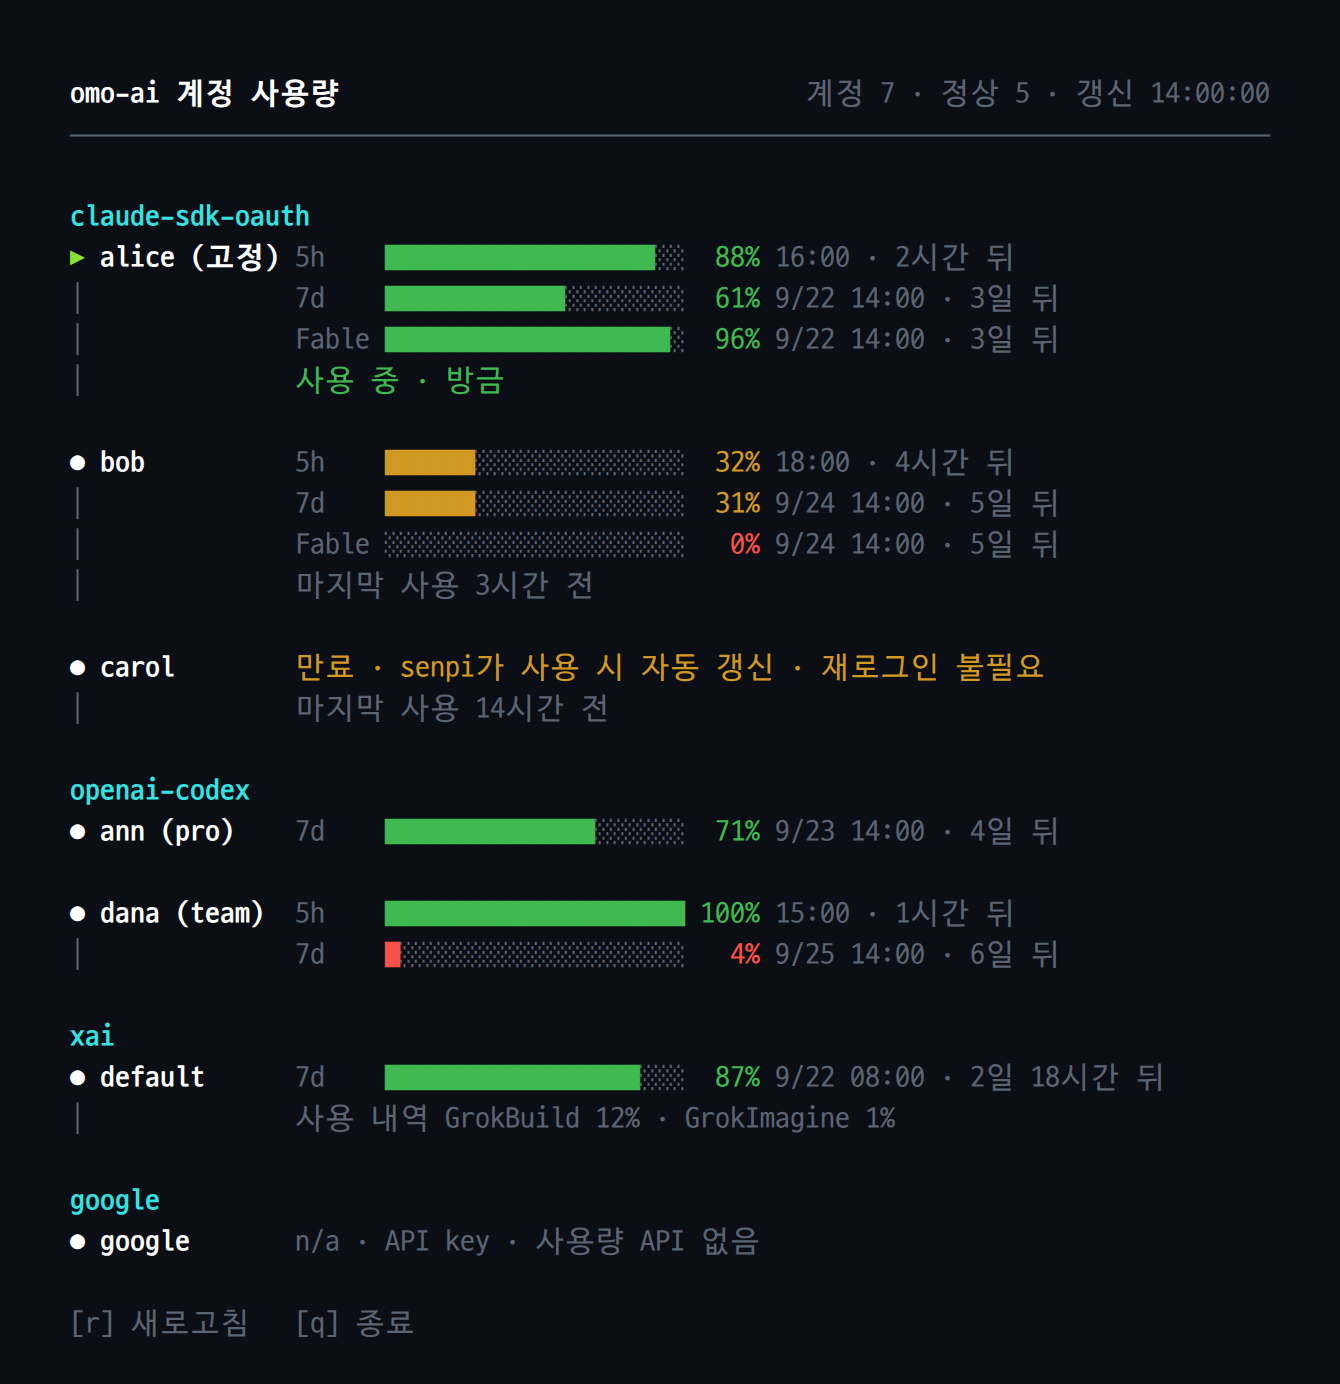
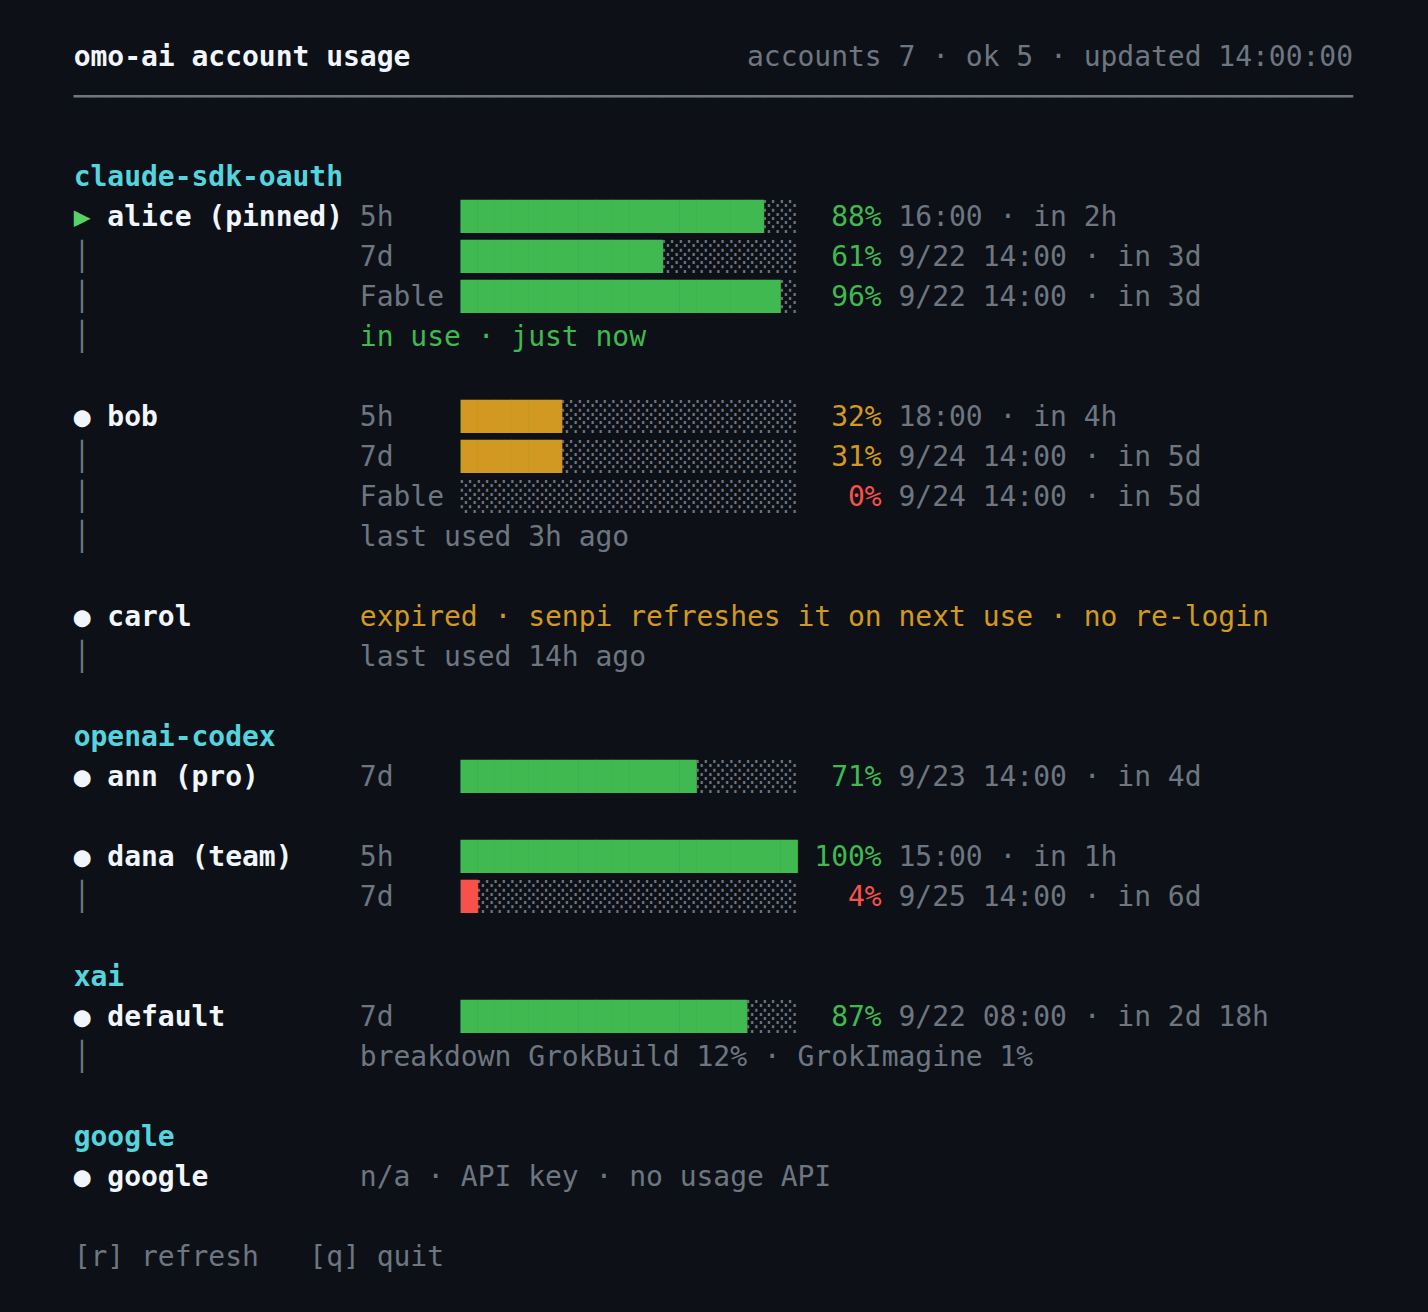
docs: README·데모 스크린샷을 영어 UI에 맞춰 갱신
두 README의 데모 블록을 실제 renderFrame 출력으로 다시 찍고(영어), 본문이 인용하던
화면 문자열(만료·사용 중·요청 제한·사용 내역·고정 ...)을 새 영어 문자열로 바꿨다.
한국어판 본문은 한국어 그대로고 인용만 영어다. 영어판에 있던 한글 용어 대조표는
UI가 영어가 되어 필요 없어졌으므로 뺐다.

docs/demo.png도 같은 데모 데이터로 다시 렌더했다 (renderFrame -> xterm.js -> Chrome 2x).

diff --git a/README.md b/README.md
@@ -16,43 +16,40 @@ A terminal UI that shows the **remaining quota of every account** signed in to o
 <summary>Text version (the same demo data as the screenshot above)</summary>
 
 ```
-  omo-ai 계정 사용량                               계정 7 · 정상 5 · 갱신 14:00:00
-  ────────────────────────────────────────────────────────────────────────────────
+  omo-ai account usage                    accounts 7 · ok 5 · updated 14:00:00
+  ────────────────────────────────────────────────────────────────────────────
 
   claude-sdk-oauth
-  ▶ alice (고정) 5h    ██████████████████░░  88% 16:00 · 2시간 뒤
-  │              7d    ████████████░░░░░░░░  61% 9/22 14:00 · 3일 뒤
-  │              Fable ███████████████████░  96% 9/22 14:00 · 3일 뒤
-  │              사용 중 · 방금
+  ▶ alice (pinned) 5h    ██████████████████░░  88% 16:00 · in 2h
+  │                7d    ████████████░░░░░░░░  61% 9/22 14:00 · in 3d
+  │                Fable ███████████████████░  96% 9/22 14:00 · in 3d
+  │                in use · just now
 
-  ● bob          5h    ██████░░░░░░░░░░░░░░  32% 18:00 · 4시간 뒤
-  │              7d    ██████░░░░░░░░░░░░░░  31% 9/24 14:00 · 5일 뒤
-  │              Fable ░░░░░░░░░░░░░░░░░░░░   0% 9/24 14:00 · 5일 뒤
-  │              마지막 사용 3시간 전
+  ● bob            5h    ██████░░░░░░░░░░░░░░  32% 18:00 · in 4h
+  │                7d    ██████░░░░░░░░░░░░░░  31% 9/24 14:00 · in 5d
+  │                Fable ░░░░░░░░░░░░░░░░░░░░   0% 9/24 14:00 · in 5d
+  │                last used 3h ago
 
-  ● carol        만료 · senpi가 사용 시 자동 갱신 · 재로그인 불필요
-  │              마지막 사용 14시간 전
+  ● carol          expired · senpi refreshes it on next use · no re-login
+  │                last used 14h ago
 
   openai-codex
-  ● ann (pro)    7d    ██████████████░░░░░░  71% 9/23 14:00 · 4일 뒤
+  ● ann (pro)      7d    ██████████████░░░░░░  71% 9/23 14:00 · in 4d
 
-  ● dana (team)  5h    ████████████████████ 100% 15:00 · 1시간 뒤
-  │              7d    █░░░░░░░░░░░░░░░░░░░   4% 9/25 14:00 · 6일 뒤
+  ● dana (team)    5h    ████████████████████ 100% 15:00 · in 1h
+  │                7d    █░░░░░░░░░░░░░░░░░░░   4% 9/25 14:00 · in 6d
 
   xai
-  ● default      7d    █████████████████░░░  87% 9/22 08:00 · 2일 18시간 뒤
-  │              사용 내역 GrokBuild 12% · GrokImagine 1%
+  ● default        7d    █████████████████░░░  87% 9/22 08:00 · in 2d 18h
+  │                breakdown GrokBuild 12% · GrokImagine 1%
 
   google
-  ● google       n/a · API key · 사용량 API 없음
+  ● google         n/a · API key · no usage API
 
-  [r] 새로고침   [q] 종료
+  [r] refresh   [q] quit
 ```
 
 </details>
-
-> [!NOTE]
-> The TUI speaks Korean, so the frame above is verbatim program output rather than a translation. Glossary: `계정 사용량` account usage · `계정 7 · 정상 5` 7 accounts, 5 ok · `갱신 14:00:00` last refresh · `사용 중 · 방금` in use, just now · `마지막 사용 3시간 전` last used 3 hours ago · `만료` expired · `senpi가 사용 시 자동 갱신 · 재로그인 불필요` senpi refreshes it on next use, no re-login needed · `사용 내역` usage breakdown · `사용량 API 없음` no usage API · `[r] 새로고침` refresh · `[q] 종료` quit.
 
 Once you run several Claude, Codex, xAI and Kimi accounts through senpi, you keep asking "how much is left on which account?" and "which one am I spending right now?" — and checking by hand every time gets old. omo-usage **only reads** the credentials and account-pool state senpi already stores, and shows the remaining percentage and reset time per account together with the account being drained right now. Tokens never appear on screen, in the output or in a log, and when a response cannot be interpreted it writes down the reason instead of inventing a number.
 
@@ -91,20 +88,20 @@ It opens the two files senpi uses and writes not a single byte. Token refresh an
 
 ### How to read the screen
 
-- **One account = one block.** The first line carries the account name after `●` (Codex adds the plan, `(pro)`/`(team)`; a slot pinned by auth.json gets `(고정)`, pinned), and the windows below it are tied together by `│`.
-- **The account being drained right now is `▶`.** If senpi completed a request on that account within the last 10 minutes, the marker turns into a green `▶` and the block ends with `사용 중 · 방금` (in use, just now). Anything older stays `●` with a dim `마지막 사용 3시간 전` (last used 3 hours ago). senpi picks an account per session, so there can be more than one `▶`. senpi keeps no such record for Codex, xAI and kimi-coding, so the TUI compares the previous fetch against the current one and writes the drop as `사용 중 · 방금 조회에서 -3%` (in use, −3% since the last fetch) — different evidence, so different wording (it is not an exact timestamp but somewhere inside the 150-second fetch interval, and since Codex reports whole percents anything below 1 pp goes unnoticed). Once it goes stale: `마지막 차감 감지 25분 전` (last drain detected 25 minutes ago). `--once`/`--json` have no previous fetch, so they show none of this. google has no usage API at all.
+- **One account = one block.** The first line carries the account name after `●` (Codex adds the plan, `(pro)`/`(team)`; a slot pinned by auth.json gets `(pinned)`), and the windows below it are tied together by `│`.
+- **The account being drained right now is `▶`.** If senpi completed a request on that account within the last 10 minutes, the marker turns into a green `▶` and the block ends with `in use · just now`. Anything older stays `●` with a dim `last used 3h ago`. senpi picks an account per session, so there can be more than one `▶`. senpi keeps no such record for Codex, xAI and kimi-coding, so the TUI compares the previous fetch against the current one and writes the drop as `in use · -3% since poll 2m ago` — different evidence, so different wording (it is not an exact timestamp but somewhere inside the 150-second fetch interval, and since Codex reports whole percents anything below 1 pp goes unnoticed). Once it goes stale: `last drain seen 25m ago`. `--once`/`--json` have no previous fetch, so they show none of this. google has no usage API at all.
 - **The bar and the percentage are what is left.** 100% means nothing used yet. Green ≥ 50% · yellow ≥ 20% · red < 20%.
 - **Window names**: `5h` session, `7d` weekly, and a model name such as `Fable` means that model's weekly limit.
-- **Reset times** read `16:00` when they fall today, otherwise `9/22 14:00`, followed by a relative time like `2시간 뒤` (in 2 hours).
-- **xAI** turns its single weekly credit pool into the bar, and the `사용 내역 GrokBuild 12% · GrokImagine 1%` line below it is each product's share of that same pool (usage, not remaining).
+- **Reset times** read `16:00` when they fall today, otherwise `9/22 14:00`, followed by a relative time like `in 2h`.
+- **xAI** turns its single weekly credit pool into the bar, and the `breakdown GrokBuild 12% · GrokImagine 1%` line below it is each product's share of that same pool (usage, not remaining).
 - When a reason shows up instead of a bar:
 
 | Display | Meaning |
 | --- | --- |
-| `만료 · senpi가 사용 시 자동 갱신 · 재로그인 불필요` | Only the access token expired. senpi refreshes it with the refresh token the moment it uses that account |
-| `만료 · refresh 실패 · omo에서 /login <provider> (이름: <슬롯>)` | The refresh token is dead too. Re-authenticate with `/login` in the omo TUI |
-| `요청 제한 (HTTP 429) · HH:MM 재시도` | The previous bar is kept as is, and the account is not called again before that time |
-| `오류 · …` | HTTP error, timeout, or a response that cannot be parsed. No numbers are invented |
+| `expired · senpi refreshes it on next use · no re-login` | Only the access token expired. senpi refreshes it with the refresh token the moment it uses that account |
+| `expired · refresh failed · run /login <provider> in omo (name: <slot>)` | The refresh token is dead too. Re-authenticate with `/login` in the omo TUI |
+| `rate limited (HTTP 429) · retry HH:MM` | The previous bar is kept as is, and the account is not called again before that time |
+| `error · …` | HTTP error, timeout, or a response that cannot be parsed. No numbers are invented |
 | `n/a · …` | A provider with no usage API (google) |
 
 ### JSON output
@@ -148,15 +145,15 @@ omo-usage --json | jq -r --argjson now "$(date +%s000)" '.[] | select(.lastUsedA
 ## FAQ
 
 **Can I tell which account senpi is spending right now?**
-The one marked `▶`. Every time a request succeeds, senpi writes that slot's `lastSuccessAt` into `~/.omo/agent/credential-pool-state.json`, and omo-usage marks every slot newer than 10 minutes as in use. The TUI re-reads only that file every 5 seconds, so it keeps up regardless of the 150-second usage fetch interval. There is a reason it refuses to declare "this one account": senpi picks an account per session by hash (preferring a pinned account when one exists), so with several sessions several accounts are drained at once. Hence more than one `▶` is possible, and the `방금` (just now) / `3분 전` (3 minutes ago) next to it is what you judge by. senpi keeps no such record for Codex, xAI and kimi-coding (`stored/slots` is empty for `openai-codex` and `kimi-coding`, and xai has no entry at all). For those three the TUI substitutes a comparison of remaining values between fetches — if the remainder dropped, `▶ … 사용 중 · 방금 조회에서 -3%`. That is not an exact timestamp but somewhere inside the 150-second fetch interval, and a rise caused by a reset does not count as drain. google has no usage API.
+The one marked `▶`. Every time a request succeeds, senpi writes that slot's `lastSuccessAt` into `~/.omo/agent/credential-pool-state.json`, and omo-usage marks every slot newer than 10 minutes as in use. The TUI re-reads only that file every 5 seconds, so it keeps up regardless of the 150-second usage fetch interval. There is a reason it refuses to declare "this one account": senpi picks an account per session by hash (preferring a pinned account when one exists), so with several sessions several accounts are drained at once. Hence more than one `▶` is possible, and the `just now` / `3m ago` next to it is what you judge by. senpi keeps no such record for Codex, xAI and kimi-coding (`stored/slots` is empty for `openai-codex` and `kimi-coding`, and xai has no entry at all). For those three the TUI substitutes a comparison of remaining values between fetches — if the remainder dropped, `▶ … in use · -3% since poll 2m ago`. That is not an exact timestamp but somewhere inside the 150-second fetch interval, and a rise caused by a reset does not count as drain. google has no usage API.
 
 **It says expired — do I have to log in again?**
-Usually not. An expired access token is normal, and as long as the refresh token is alive senpi refreshes it the moment it next uses that account. omo-usage only reads auth.json, so it cannot refresh on your behalf (refreshing directly would rotate the refresh token and corrupt senpi's stored copy) — it simply shows the expiry as it is. Re-login is needed only when `refresh 실패` (refresh failed) is attached, and then you run `/login claude-sdk-oauth` in the omo TUI and enter the existing slot name at the name prompt, which replaces it in place.
+Usually not. An expired access token is normal, and as long as the refresh token is alive senpi refreshes it the moment it next uses that account. omo-usage only reads auth.json, so it cannot refresh on your behalf (refreshing directly would rotate the refresh token and corrupt senpi's stored copy) — it simply shows the expiry as it is. Re-login is needed only when `refresh failed` is attached, and then you run `/login claude-sdk-oauth` in the omo TUI and enter the existing slot name at the name prompt, which replaces it in place.
 
 **Is there no shell command like `omo auth login`?**
 There is not. `omo auth` only has `check` / `print-api-key` / `print-bearer-token`. Logging in is `/login <provider>` or `/claude-account add` inside the TUI.
 
-**`요청 제한 (HTTP 429)` keeps showing up on my accounts.**
+**`rate limited (HTTP 429)` keeps showing up on my accounts.**
 The Anthropic usage endpoint returns 429 for roughly 95 seconds after the last success per token, and it gets more frequent when it collides with senpi's own polling. On a 429 omo-usage keeps the previous bar and does not call that account again before the retry time, and the auto-refresh interval (150 s) is deliberately longer than that cooldown. The value is not gone — it just does not move for a while.
 
 **Why is the xAI per-product breakdown not a bar?**
@@ -180,7 +177,7 @@ auth.json is opened read-only and tokens are used in the fetch call and nowhere 
 - **Never invent a number.** If the response is empty or shaped differently, show the reason instead of a bar.
 - **Never write to auth.json.** Refreshing tokens is senpi's job.
 - **Expired ≠ dead.** The re-login hint is attached only to slots that senpi's failover stamped with `blockReason: "auth_error"`.
-- **Never declare a single "current account".** senpi chooses per session, so every slot shows its own last-drain time and earns a `▶` when that is recent (10 minutes). Different evidence, different wording (`방금` vs `방금 조회에서 -3%`).
+- **Never declare a single "current account".** senpi chooses per session, so every slot shows its own last-drain time and earns a `▶` when that is recent (10 minutes). Different evidence, different wording (`just now` vs `-3% since poll`).
 - **A 429 never erases a bar.** Keep the previous value, show the retry time, and do not call before it.
 - **No line ever exceeds the terminal width.** Hangul and full-width glyph widths are measured by hand, so columns hold even with color applied.
 
@@ -189,7 +186,7 @@ auth.json is opened read-only and tokens are used in the fetch call and nowhere 
 
 - **Codex windows are told apart by length, not by position.** Depending on the plan, `primary_window` can be the weekly one or the 5-hour one, so `limit_window_seconds` (18000 / 604800) decides.
 - **Claude's per-model weekly limits live only in `weekly_scoped` inside `limits[]`.** Top-level keys such as `seven_day_opus` are usually `null`.
-- **The xAI response is proto3 JSON, so a zero drops its key.** When `config.currentPeriod` is present but `creditUsagePercent` is missing, read it as 0 (100% remaining); when `currentPeriod` itself is missing it is not a credits response at all, so it stays an error. `{"val":0}` arrives as `{}`.
+- **The xAI response is proto3 JSON, so a zero drops its key.** When `config.currentPeriod` is present but `creditUsagePercent` is missing, read it as 0 (100% remaining); when `currentPeriod` itself is missing it is not a credits response at all, so it stays an `error`. `{"val":0}` arrives as `{}`.
 - **The Anthropic 429 window is about 95 seconds per token** (measured 2026-09-18). Use `Retry-After` when it is present, otherwise 120 seconds as the cooldown.
 - **The xAI slot's label is `default`.** senpi stores no displayName for xai.
 - **The drain record exists only in `credential-pool-state.json`.** `providers.<provider>.lanes.stored.slots.<slot>.lastSuccessAt` is updated on every successful request. `lease` is a half-open probe lock (30 s), not an in-use signal. Stale slot names and account-id keys linger in the file, so matching happens only against the current auth.json slot names, and Codex and kimi-coding slots are missing from it entirely (xai has no provider entry at all). That is why those three fall back to the drop in remaining values between TUI refreshes — `collect.ts` compares the previous result's `remainingPercent` per window label, keeps the largest drop as `drained`, never treats a rise (a reset) as a drain, and holds on to the previous detection when there is no new one.
